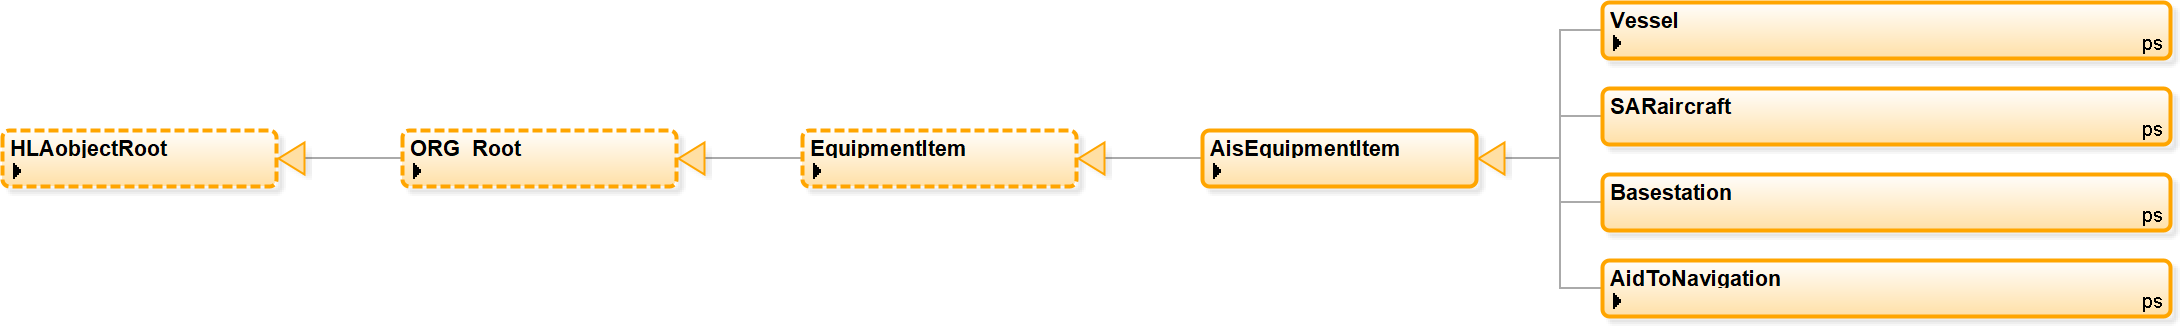
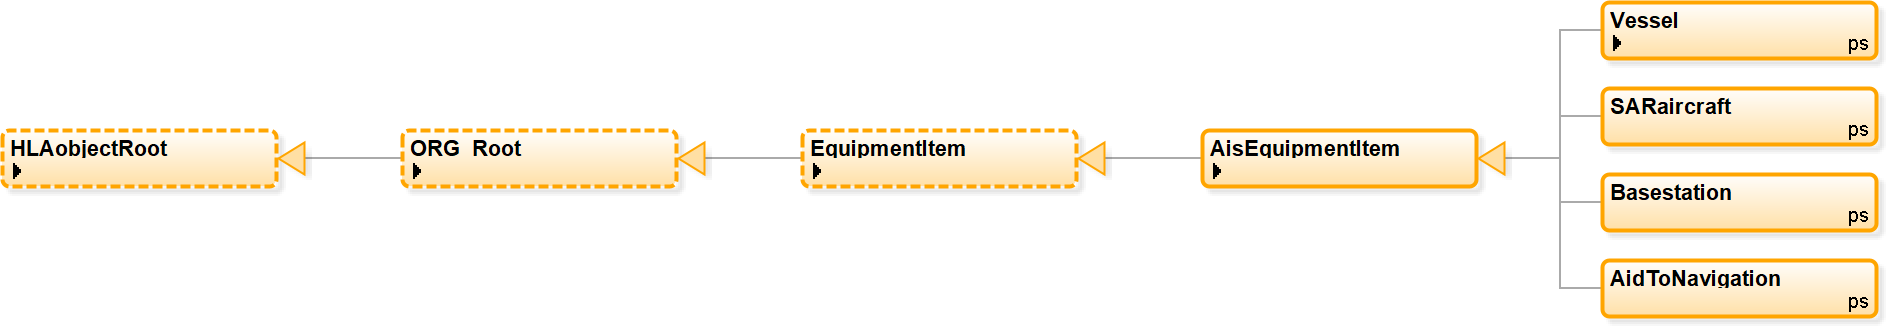
Removed ORG data that can in theory be derived from the entity type. Updated documentation also.

diff --git a/NETN-AIS.md b/NETN-AIS.md
@@ -104,9 +104,10 @@ The `AisEquipmentItem` defines amongst others the `RadioSystemType` of the AIS s
 
 - `7.3.0.37.0.0.0` (default transmitter)
 - `7.3.0.37.1.0.0` (class A transmitter)
-- `7.3.0.37.2.0.0` (class B transmitter)
+- `7.3.0.37.2.0.0` (class B "SO" transmitter)
+- `7.3.0.37.3.0.0` (class B "CS" transmitter)
 
-By adding a subcategory (i.e. `1` or `2`, not defined in the SISO enumerations), it is possible to identify the specific type of transmitter, namely class A or B in this example. These non-standard subcategory values should be defined as part of the federation agreements. The country code in this example is left as `0`. 
+By adding a subcategory (i.e. `1` ,`2` and `3`, not defined in the SISO enumerations), it is possible to identify the specific type of transmitter, namely class A or B in this example. These non-standard subcategory values should be defined as part of the federation agreements. The country code value `0` in this example should be replaced by the appropriate value.
 
 ## AisMessage class parameters
 
@@ -165,11 +166,11 @@ Optionally an AIS Radio Signal can be associated with a `RadioTransmitter` objec
 
 | Attribute name | Description | Value |
 | ------------------------------ | ------------------------------------------------------------ | ------------------------------------------------------------ |
-| `Frequency` | Center frequency of the radio transmissions. | Channel A `161.975 MHz` (87B), or Channel B `162.025 MHz` (88B) |
-| `FrequencyBandwidth` | Bandpass of the radio transmissions, specified in hertz. | `25` kHz |
+| `Frequency` | Center frequency of the radio transmissions, specified in Herz. | `162 MHz` |
+| `FrequencyBandwidth` | Bandpass of the radio transmissions, specified in Hertz. | `25 kHz` |
 | `RadioIndex` | Specifies the identification number for each radio on a given host. This value shall not change during simulation execution. | Per agreement. If the `RadioTransmitter` is the only radio for the vessel, the index `0` should be used. |
 | `RadioSystemType` | Entity type of the radio transmitter: Kind, Domain, Country, Category. This value shall not change during simulation execution. Note that no further refinement of the type (subcategory etc.) is defined. The country value `0` should be replaced by the actual value. | `7.3.0.37` |
-| `TransmittedPower` | The average power being transmitted in units of decibel-milliwatts. | `12500` Milliwatts for class A, or `2000` Milliwatts for class B |
+| `TransmittedPower` | The average power being transmitted in units of decibel-milliwatts. | `12500` Milliwatts for class A, `5000` Milliwatts for class B/SO, and `2000` Milliwatts for class B/CS. |
 | `TransmitterOperationalStatus` | On/Off state of the transmitter as an enumeration. | `Off`, `OnButNotTransmitting` or `OnAndTransmitting` |
 | `WorldLocation` | Location of the antenna in world coordinates. | The vessel position. |
 
